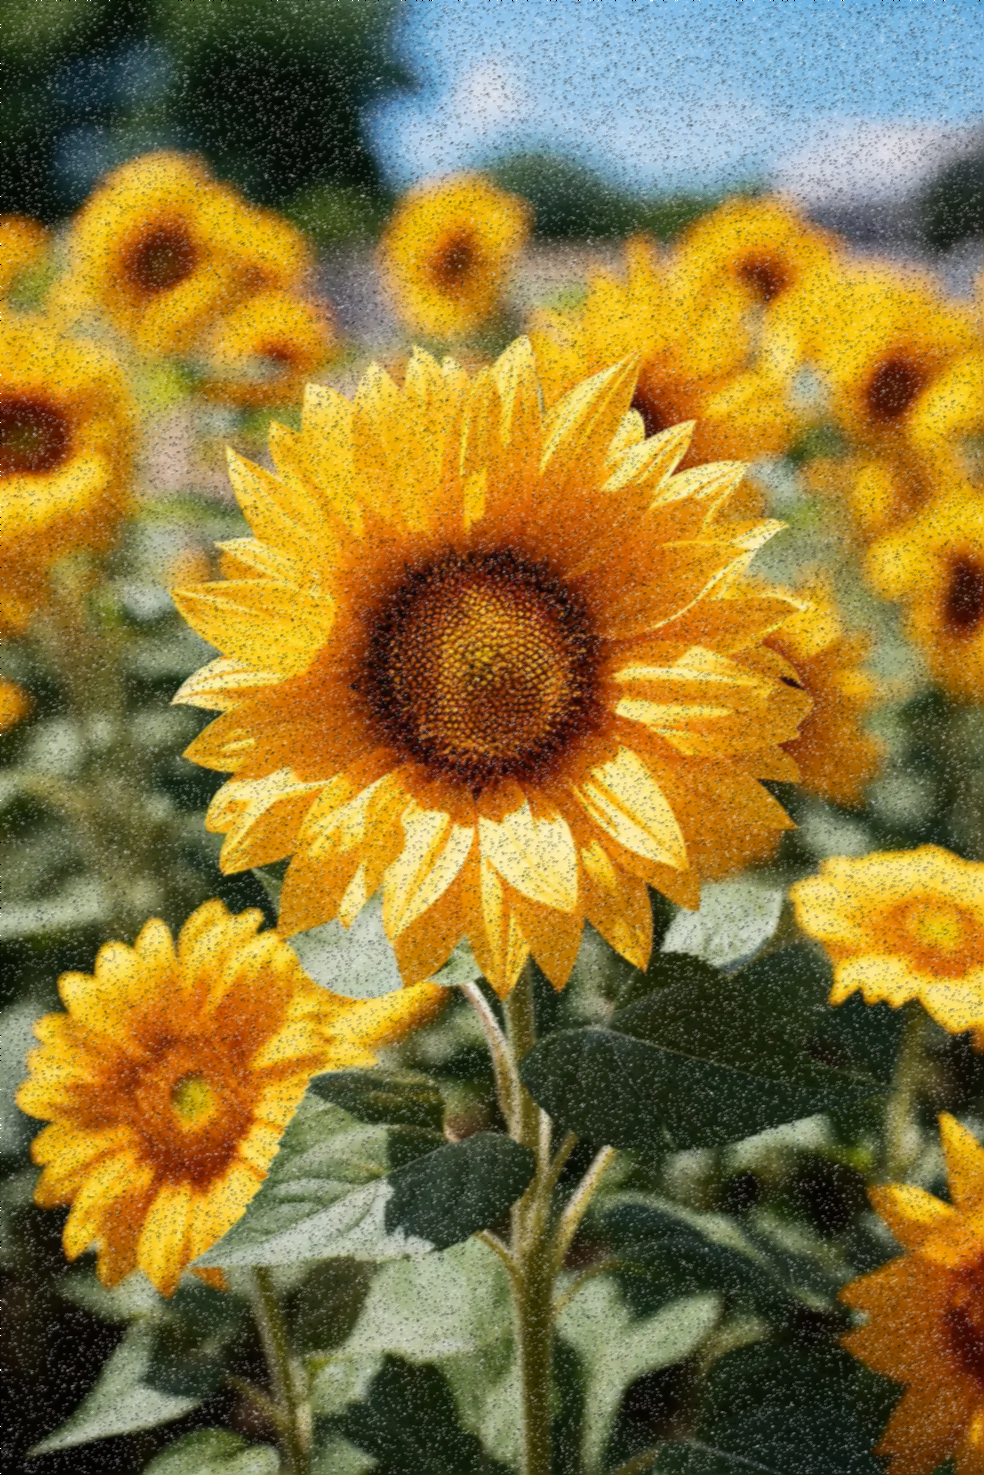
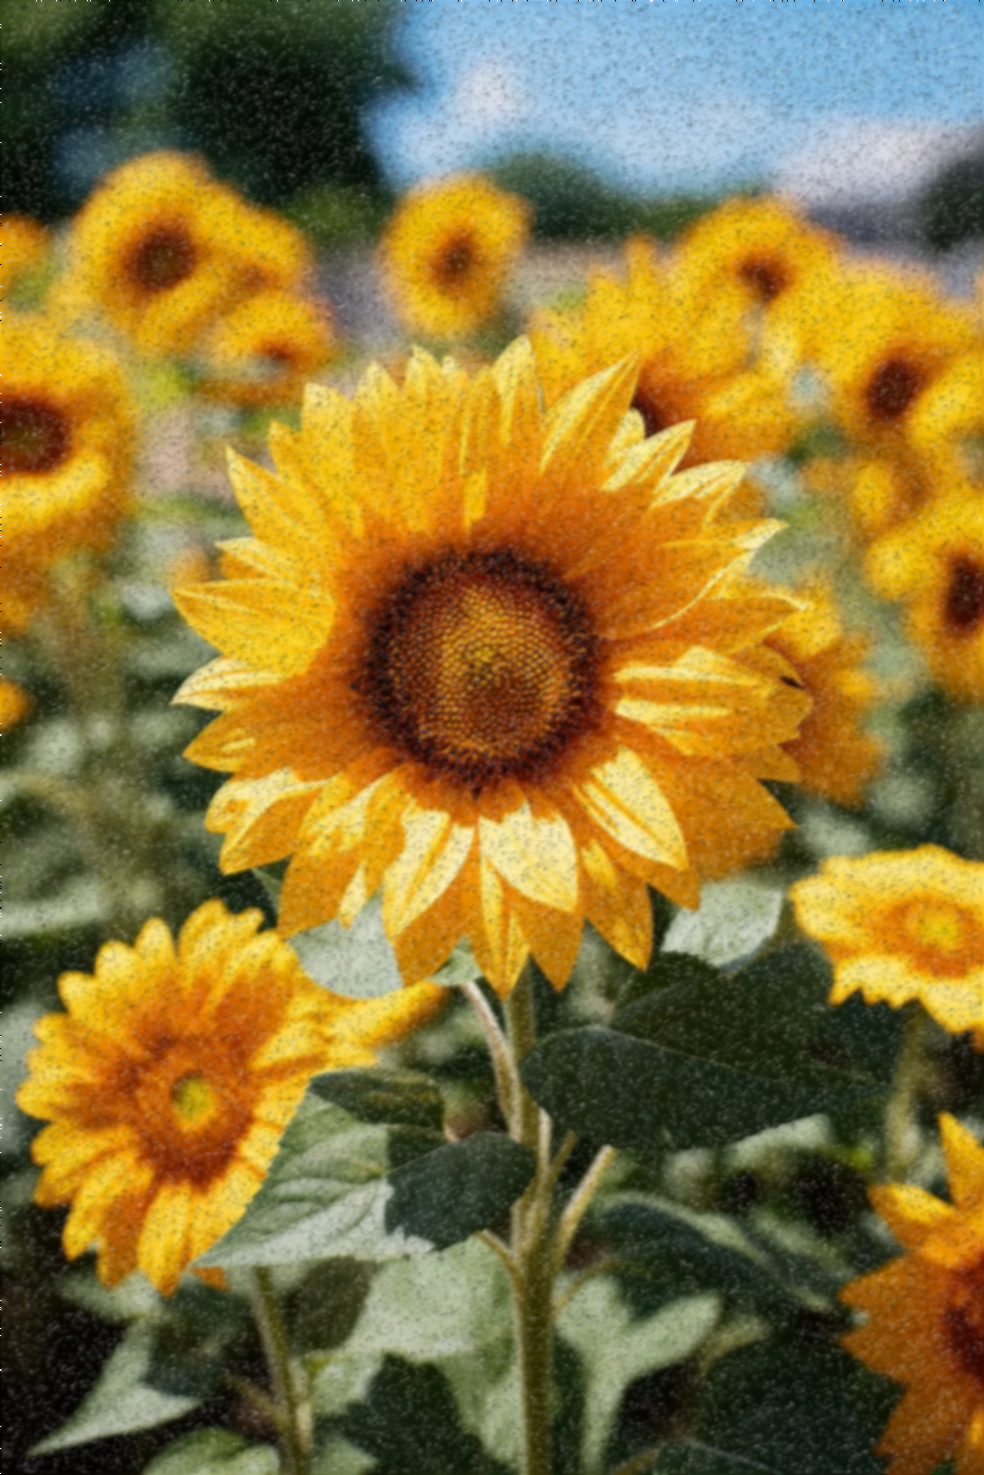
updates

diff --git a/filtros_espaciais/filtros_espaciais.cpp b/filtros_espaciais/filtros_espaciais.cpp
@@ -122,26 +122,28 @@ Mat filtro_K_Vizinhos_Proximos(const Mat& imgOriginal, int k, const std::string&
     int altura = img.rows;
     int largura = img.cols;
 
-    // Iterar sobre os pixels da imagem
-    for (int i = 1; i < altura - 1; i++) {
-        for (int j = 1; j < largura - 1; j++) {
-            Vec3b& pixelCentral = img.at<Vec3b>(i, j); // Referência ao pixel central
+    for(int x=0;x<3;x++){
+        // Iterar sobre os pixels da imagem
+        for (int i = 1; i < altura - 1; i++) {
+            for (int j = 1; j < largura - 1; j++) {
+                Vec3b& pixelCentral = img.at<Vec3b>(i, j); // Referência ao pixel central
 
-            // Iterar sobre os canais de cor (B, G, R)
-            for (int canal = 0; canal < 3; canal++) {
-                // Obter os vizinhos do pixel central
-                vector<int> vizinhos = obterVizinhos(img, i, j, canal);
+                // Iterar sobre os canais de cor (B, G, R)
+                for (int canal = 0; canal < 3; canal++) {
+                    // Obter os vizinhos do pixel central
+                    vector<int> vizinhos = obterVizinhos(img, i, j, canal);
 
-                // Ordenar e limitar ao valor de k vizinhos
-                if (vizinhos.size() > k) {
-                    sort(vizinhos.begin(), vizinhos.end());
-                    vizinhos.resize(k);
+                    // Ordenar e limitar ao valor de k vizinhos
+                    if (vizinhos.size() > k) {
+                        sort(vizinhos.begin(), vizinhos.end());
+                        vizinhos.resize(k);
+                    }
+
+                    // Calcular a média dos k vizinhos mais próximos
+                    int soma_k_proximos = std::accumulate(vizinhos.begin(), vizinhos.end(), 0);
+                    int media_k = (pixelCentral[canal] + soma_k_proximos) / (vizinhos.size() + 1);
+                    pixelCentral[canal] = saturate_cast<uchar>(media_k);
                 }
-
-                // Calcular a média dos k vizinhos mais próximos
-                int soma_k_proximos = std::accumulate(vizinhos.begin(), vizinhos.end(), 0);
-                int media_k = (pixelCentral[canal] + soma_k_proximos) / (vizinhos.size() + 1);
-                pixelCentral[canal] = saturate_cast<uchar>(media_k);
             }
         }
     }
